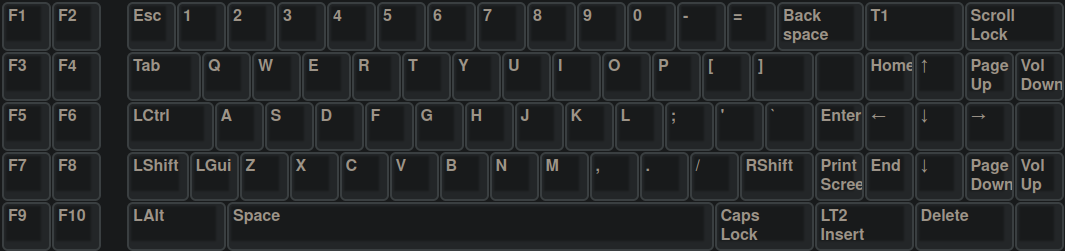
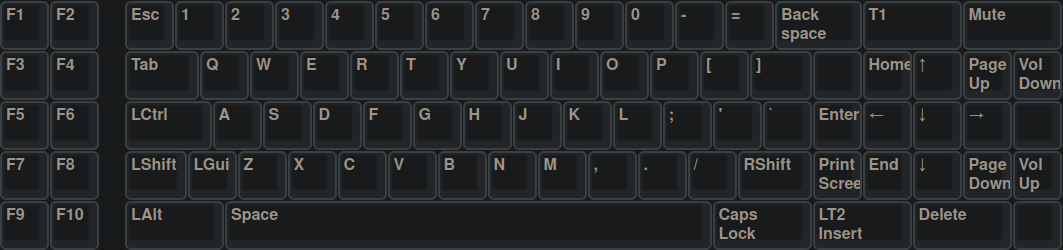
minor assignment changes

diff --git a/unimap_plain.c b/unimap_plain.c
@@ -2,7 +2,7 @@
  * path:   /home/klassiker/.local/share/repos/zenith-xt-usb/unimap_plain.c
  * author: klassiker [mrdotx]
  * github: https://github.com/mrdotx/zenith-usb
- * date:   2021-03-02T13:26:52+0100
+ * date:   2021-03-02T18:54:19+0100
  */
 
 #include "unimap_trans.h"
@@ -32,7 +32,7 @@ const action_t actionmaps[][UNIMAP_ROWS][UNIMAP_COLS] PROGMEM = {
 #endif
     UNIMAP(
               NO,  NO,  NO,  NO,  NO,  NO,  NO,  NO,  NO,  NO,  NO,  NO,
-    ESC,      F1,  F2,  F3,  F4,  F5,  F6,  F7,  F8,  F9,  F10, NO,  NO,            NO,  SLCK,NO,           NO,  NO,  NO,
+    ESC,      F1,  F2,  F3,  F4,  F5,  F6,  F7,  F8,  F9,  F10, NO,  NO,            NO,  MUTE,NO,           NO,  NO,  NO,
     GRV, 1,   2,   3,   4,   5,   6,   7,   8,   9,   0,   MINS,EQL, NO,  BSPC,     NO,  NO,  NO,      LT1, NO,  PSCR,VOLD,
     TAB, Q,   W,   E,   R,   T,   Y,   U,   I,   O,   P,   LBRC,RBRC,     LGUI,     NO,  NO,  NO,      HOME,UP,  PGUP,VOLU,
     CAPS,A,   S,   D,   F,   G,   H,   J,   K,   L,   SCLN,QUOT,     NO,  ENT,                         LEFT,DOWN,RGHT,NO,
@@ -42,12 +42,12 @@ const action_t actionmaps[][UNIMAP_ROWS][UNIMAP_COLS] PROGMEM = {
     /* num pad with layer toggle NUM LOCK(LT1) */
     UNIMAP(
               NO,  NO,  NO,  NO,  NO,  NO,  NO,  NO,  NO,  NO,  NO,  NO,
-    TRNS,     TRNS,TRNS,TRNS,TRNS,TRNS,TRNS,TRNS,TRNS,TRNS,TRNS,NO,  NO,            NO,  PAUS,NO,           NO,  NO,  NO,
+    TRNS,     TRNS,TRNS,TRNS,TRNS,TRNS,TRNS,TRNS,TRNS,TRNS,TRNS,NO,  NO,            NO,  SLCK,NO,           NO,  NO,  NO,
     TRNS,TRNS,TRNS,TRNS,TRNS,TRNS,TRNS,TRNS,TRNS,TRNS,TRNS,TRNS,TRNS,NO,  TRNS,     NO,  NO,  NO,      TRNS,NO,  AST, MINS,
     TRNS,TRNS,TRNS,TRNS,TRNS,TRNS,TRNS,TRNS,TRNS,TRNS,TRNS,TRNS,TRNS,     LGUI,     NO,  NO,  NO,      7,   8,   9,   PLUS,
     TRNS,TRNS,TRNS,TRNS,TRNS,TRNS,TRNS,TRNS,TRNS,TRNS,TRNS,TRNS,     NO,  TRNS,                        4,   5,   6,   NO,
     TRNS,NO,  TRNS,TRNS,TRNS,TRNS,TRNS,TRNS,TRNS,TRNS,TRNS,TRNS,     NO,  TRNS,          NO,           1,   2,   3,   NO,
-    TRNS,NO,  TRNS,NO,            TRNS,          NO,  NO  ,NO,  NO,  NO,  NO,       NO,  NO,  NO,           LTK2, DOT, NO
+    TRNS,NO,  TRNS,NO,            TRNS,          NO,  NO  ,NO,  NO,  NO,  NO,       NO,  NO,  NO,           LTK2,DOT, NO
     ),
     /* function, macros and mouse with tap key INS(LTK1) or 0(LTK2) */
     UNIMAP(
